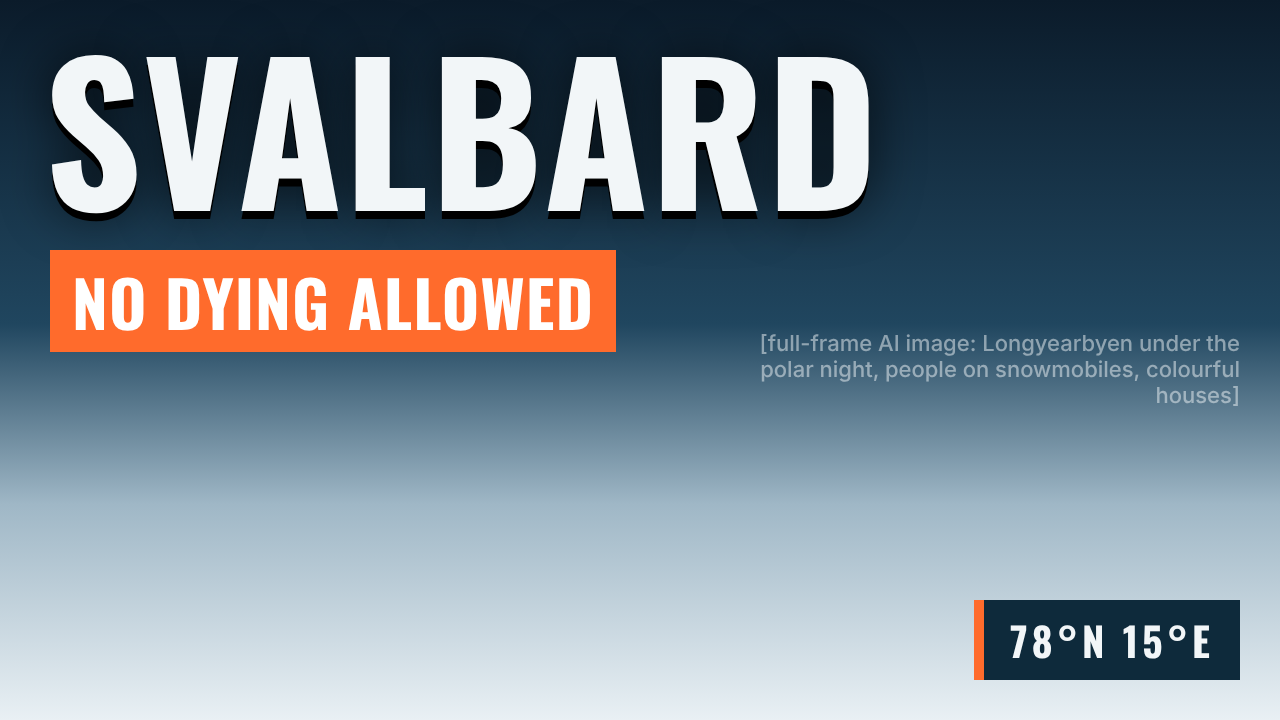
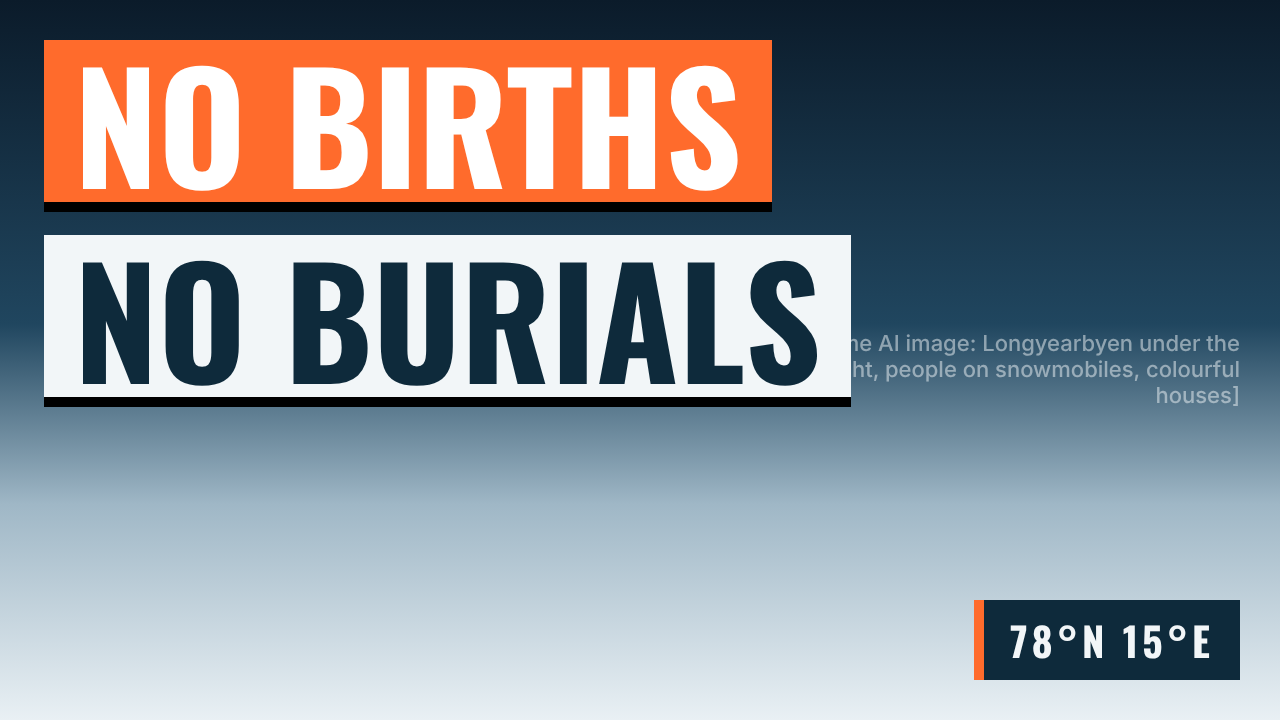
Align thumbnails, titles and hooks for pilot episodes; fix hook facts
Claude-Session: https://claude.ai/code/session_01Lf1GmHwi2stAegFha7FYGY

Changed region(s): [[0.0312, 0.0306, 0.6875, 0.5806]]

diff --git a/youtube/channels/_brand/make_brand.py b/youtube/channels/_brand/make_brand.py
@@ -54,8 +54,8 @@ C["life-across-the-map"] = dict(
         <div style="color:#FF6B2C;font:600 38px Oswald;letter-spacing:3px;margin-top:12px">NEW DOCUMENTARY EVERY TUE &amp; SAT</div></div></div>""",
     thumb="""<div class="abs" style="inset:0;background:linear-gradient(180deg,#0b1b2a 0%,#20465f 45%,#9fb7c6 70%,#e9f0f4 100%)"></div>
     <div class="abs" style="right:40px;top:330px;width:520px;color:rgba(242,246,248,.5);font:500 22px Inter;text-align:right">[full-frame AI image: Longyearbyen under the polar night, people on snowmobiles, colourful houses]</div>
-    <div class="abs" style="left:44px;top:30px;color:#F2F6F8;font:700 190px Oswald;line-height:1;letter-spacing:2px;text-shadow:0 8px 0 #000,0 0 50px rgba(0,0,0,.7)">SVALBARD</div>
-    <div class="abs" style="left:50px;top:250px;background:#FF6B2C;color:#fff;font:700 64px Oswald;padding:4px 22px;letter-spacing:1px">NO DYING ALLOWED</div>
+    <div class="abs" style="left:44px;top:40px;background:#FF6B2C;color:#fff;font:700 150px Oswald;line-height:1;padding:6px 30px;box-shadow:0 10px 0 #000">NO BIRTHS</div>
+    <div class="abs" style="left:44px;top:235px;background:#F2F6F8;color:#0E2A3B;font:700 150px Oswald;line-height:1;padding:6px 30px;box-shadow:0 10px 0 #000">NO BURIALS</div>
     <div class="abs" style="right:40px;bottom:40px;background:#0E2A3B;color:#F2F6F8;font:600 40px Oswald;letter-spacing:4px;padding:10px 26px;border-left:10px solid #FF6B2C">78°N 15°E</div>""",
 )
 C["backlot-whispers"] = dict(
@@ -101,9 +101,8 @@ C["hace-millones"] = dict(
     thumb="""<div class="abs" style="inset:0;background:radial-gradient(ellipse at 70% 30%,#ffb36b 0%,#c2410c 25%,#3a1d10 60%,#120c0a 100%)"></div>
     <div class="abs" style="right:40px;top:300px;width:520px;color:rgba(237,227,209,.55);font:500 22px Inter;text-align:right">[full-frame AI image: asteroid entering the sky over a Cretaceous forest, dinosaurs looking up]</div>
     <div class="abs" style="left:40px;top:30px;color:#EDE3D1;font:600 26px Oswald;letter-spacing:6px;opacity:.85">HACE MILLONES DE AÑOS</div>
-    <div class="abs" style="left:46px;top:70px;color:#FF5A1F;font-size:190px;line-height:.9;text-shadow:0 8px 0 #000">66</div>
-    <div class="abs" style="left:52px;top:245px;color:#EDE3D1;font-size:76px;line-height:1;text-shadow:0 6px 0 #000">MILLONES</div>
-    <div class="abs" style="left:40px;top:540px;background:#F2B33D;color:#1A1412;font-size:88px;line-height:1;padding:8px 26px">¿SOBREVIVIRÍAS?</div>""",
+    <div class="abs" style="left:40px;top:410px;display:flex;gap:18px"><div style="width:96px;height:96px;border:8px solid #EDE3D1;background:rgba(26,20,18,.75);display:flex;align-items:center;justify-content:center;color:#FF5A1F;font-size:78px;line-height:1">✕</div><div style="width:96px;height:96px;border:8px solid #EDE3D1;background:rgba(26,20,18,.75);display:flex;align-items:center;justify-content:center;color:#FF5A1F;font-size:78px;line-height:1"></div><div style="width:96px;height:96px;border:8px solid #EDE3D1;background:rgba(26,20,18,.75);display:flex;align-items:center;justify-content:center;color:#FF5A1F;font-size:78px;line-height:1"></div><div style="width:96px;height:96px;border:8px solid #EDE3D1;background:rgba(26,20,18,.75);display:flex;align-items:center;justify-content:center;color:#FF5A1F;font-size:78px;line-height:1"></div><div style="width:96px;height:96px;border:8px solid #EDE3D1;background:rgba(26,20,18,.75);display:flex;align-items:center;justify-content:center;color:#FF5A1F;font-size:78px;line-height:1"></div></div>
+    <div class="abs" style="left:40px;top:545px;background:#F2B33D;color:#1A1412;font-size:120px;line-height:1;padding:8px 30px;box-shadow:0 10px 0 #000">5 PRUEBAS</div>""",
 )
 HAZARD = "repeating-linear-gradient(-45deg,#FFC400 0 40px,#1E2327 40px 80px)"
 C["warum-es-geschah"] = dict(
@@ -128,7 +127,7 @@ C["warum-es-geschah"] = dict(
     <div class="abs" style="right:40px;top:40px;width:520px;color:rgba(242,242,242,.5);font:500 22px Inter;text-align:right">[full-frame AI reconstruction: concrete road bridge near Eschede, empty tracks, grey morning, no people]</div>
     <div class="abs" style="left:0;top:0;width:1280px;height:22px;background:repeating-linear-gradient(-45deg,#FFC400 0 40px,#1E2327 40px 80px)"></div>
     <div class="abs" style="left:40px;top:430px;background:#FFC400;color:#111;font:700 120px Oswald;line-height:1;padding:6px 28px">EIN RADREIFEN</div>
-    <div class="abs" style="left:40px;top:580px;background:#111;color:#F2F2F2;font:700 52px 'Courier Prime';padding:4px 22px">ESCHEDE 1998</div>""",
+    <div class="abs" style="left:40px;top:580px;background:#111;color:#F2F2F2;font:700 64px 'Courier Prime';padding:4px 22px">101 TOTE</div>""",
 )
 
 

diff --git a/youtube/channels/warum-es-geschah/channel.md b/youtube/channels/warum-es-geschah/channel.md
@@ -50,7 +50,7 @@ Visualisierungen sind KI-generierte Rekonstruktionen; Quellen in jeder Beschreib
 | Шрифты | Oswald 700 (заголовки), Courier Prime (время, даты — «протокол») |
 | Аватар | жёлто-чёрная предупреждающая полоса, разорванное звено цепи |
 | Баннер | полоса-предупреждение, «WARUM ES GESCHAH», слоган, «Neue Doku jeden Donnerstag & Sonntag» |
-| Обложка | ИИ-реконструкция места (без тел и крови); жёлтым 2–3 слова («EIN RADREIFEN»); плашка-год Courier |
+| Обложка | ИИ-реконструкция места (без тел и крови); жёлтым 2–3 слова («EIN RADREIFEN»); плашка Courier с тем, чего нет в заголовке |
 | Голос | мужской, спокойный, серьёзный (немецкий); Chatterbox `de`, exaggeration 0.4 |
 | Музыка | ACE-Step: «dark ambient, low drone, sparse piano, tension» — очень тихо |
 
@@ -78,7 +78,7 @@ Visualisierungen sind KI-generierte Rekonstruktionen; Quellen in jeder Beschreib
 
 | # | Выпуск |
 |---|---|
-| 1 | **Eschede 1998: Ein Radreifen und 101 Tote – warum es geschah \| Ganze Dokumentation** (пилот) |
+| 1 | **ICE-Unglück Eschede 1998: Warum es geschah \| Ganze Doku** (пилот) |
 | 2 | Lengede 1963: Das Wunder nach 14 Tagen unter Tage |
 | 3 | Hamburger Sturmflut 1962: Die Nacht, in der die Deiche brachen |
 | 4 | Halifax 1917: Die größte Explosion vor der Atombombe |
@@ -89,10 +89,14 @@ Visualisierungen sind KI-generierte Rekonstruktionen; Quellen in jeder Beschreib
 
 ## Пилот
 
-- **Обложка:** ИИ-реконструкция моста у Эшеде (без людей), жёлтым «EIN RADREIFEN», плашка «1998».
-- **Хук:** «Am 3. Juni 1998 brach unter einem ICE ein Stück Stahl, kaum größer als ein Teller. Sechs Minuten später waren
-  101 Menschen tot. Und das Teil hätte nie in diesem Zug sein dürfen.» (Факты и формулировку «hätte nie» сверить по
-  отчёту расследования перед записью; `hookscore.py` для немецкого не показателен.)
+- **Связка** (title.py 98/100): заголовок — событие и поисковые слова («ICE-Unglück Eschede»), обложка — загадочная деталь и
+  цена («EIN RADREIFEN» / «101 TOTE»), хук за 10 секунд объясняет обе. Прежняя обложка повторяла заголовок.
+- **Обложка:** ИИ-реконструкция моста у Эшеде (без людей), жёлтым «EIN RADREIFEN», чёрная плашка «101 TOTE».
+- **Хук:** «Am 3. Juni 1998 brach unter einem ICE ein Radreifen – ein Stahlring am Rad. Sechs Kilometer später waren
+  101 Menschen tot. Und es gab einen Moment, in dem jemand den Zug noch hätte stoppen können.»
+  (Исправлено: в прежней версии были ошибки — «через шесть минут» (на деле около 6 км, это ~2 минуты на 200 км/ч) и
+  «кусок размером с тарелку» (бандаж — кольцо почти во всё колесо). «Момент, когда можно было остановить» — пассажир
+  сообщил проводнику о куске металла в полу до крушения; сверить по отчёту перед записью.)
 - **Опорные факты (сверить):** 3 июня 1998, ICE 884 «Wilhelm Conrad Röntgen», усталостная трещина колёсного бандажа
   (Radreifen) колёс с резиновыми вставками, удар о мост; 101 погибший; после — отказ от этой конструкции колёс.
 

diff --git a/youtube/channels/hace-millones/channel.md b/youtube/channels/hace-millones/channel.md
@@ -44,7 +44,7 @@ Las imágenes son recreaciones generadas con IA basadas en la investigación cie
 | Шрифты | Archivo Black (заголовки), Inter (мелкий текст) |
 | Аватар | круг-срез земных слоёв с лавовой трещиной |
 | Баннер | слои пород, «HACE MILLONES DE AÑOS», слоган, «Documentales completos · miércoles y sábados» |
-| Обложка | ИИ-сцена эпохи; огромная цифра лавовым (66 MILLONES); слово «¿SOBREVIVIRÍAS?» янтарём; шкала времени внизу |
+| Обложка | ИИ-сцена эпохи; 5 клеток-испытаний (часть перечёркнута) + янтарная плашка «5 PRUEBAS»; цифра эпохи — в заголовке, не на обложке |
 | Голос | мужской, тёплый, лёгкая драматичность (испанский нейтральный); Chatterbox `es`, exaggeration 0.55 |
 | Музыка | ACE-Step: «epic cinematic ambient, deep drums, slow strings, prehistoric» |
 
@@ -71,7 +71,7 @@ Las imágenes son recreaciones generadas con IA basadas en la investigación cie
 
 | # | Выпуск |
 |---|---|
-| 1 | **¿Sobrevivirías al Día del Asteroide? Hace 66 Millones de Años \| Documental Completo** (пилот) |
+| 1 | **¿Sobrevivirías al Asteroide? Hace 66 Millones de Años** (пилот; «Documental completo» — в описание) |
 | 2 | Así Era la Tierra Hace 252 Millones de Años: Cuando Murió Casi Todo |
 | 3 | ¿Podrías Sobrevivir con los Neandertales? Hace 50.000 Años |
 | 4 | La Tierra Bola de Nieve: Cuando Todo el Planeta se Congeló |
@@ -82,7 +82,9 @@ Las imágenes son recreaciones generadas con IA basadas en la investigación cie
 
 ## Пилот
 
-- **Обложка:** сцена удара астероида; лавовым «66 MILLONES», янтарём «¿SOBREVIVIRÍAS?».
+- **Связка** (title.py 98/100): заголовок — вопрос и эпоха («¿Sobrevivirías…? 66 millones»), обложка — формат канала
+  (5 клеток, одна перечёркнута, «5 PRUEBAS»), хук обещает именно эти 5 испытаний. Прежняя обложка повторяла заголовок.
+- **Обложка:** астероид над меловым лесом, динозавры смотрят вверх; 5 клеток (первая с ✕) + «5 PRUEBAS».
 - **Хук:** «Despiertas en lo que hoy es México. Es una mañana cualquiera, hace 66 millones de años. En unas horas, una roca de
   diez kilómetros entrará en la atmósfera a más de setenta mil kilómetros por hora. Tienes cinco pruebas para seguir vivo.»
   (Оценщик `hookscore.py` настроен на английский, для испанского его баллы не показательны — хук собран по формуле

diff --git a/youtube/channels/life-across-the-map/channel.md b/youtube/channels/life-across-the-map/channel.md
@@ -107,11 +107,14 @@ Visuals are AI-generated illustrations based on documented facts; figures are so
 
 ## Пилот: How People Live 1,300 km From the North Pole | Svalbard
 
-- **Обложка:** полярная ночь над Лонгйиром, огромное оранжевое **NO DYING ALLOWED**, плашка 78°N 15°E.
-- **Хук (оценка hookscore 51, формула The Question):**
-  «Why would anyone choose to live 1,300 kilometres from the North Pole, in a town where you can't even give birth?»
-- **Запасной (47, The Impossible Claim):** «In this town, you're not allowed to die. And if you walk past the last house
-  without a rifle, you're breaking the law.»
+- **Связка «заголовок + обложка + хук»** (title.py 98/100): заголовок даёт место и цифру, обложка — парадокс, хук в первые
+  5 секунд раскрывает обложку и задаёт вопрос, на который отвечает весь фильм.
+- **Обложка:** полярная ночь над Лонгйиром; две плашки **NO BIRTHS** (оранжевая) / **NO BURIALS** (белая); 78°N 15°E.
+  (Прежний вариант «NO DYING ALLOWED» убран: это популярный миф — закона, запрещающего умирать, нет; есть отказ от
+  погребений с 1950-х и роды на материке.)
+- **Хук (hookscore 56 WORKABLE, The Question):**
+  «In this town you can't be born and you can't be buried. So why do 2,500 people refuse to leave?»
+- **Запасной (51):** «Why would anyone choose to live 1,300 kilometres from the North Pole, in a town where you can't even give birth?»
 - **Факты для сценария (проверить по источникам перед записью):** ~2 500 жителей Лонгйира; полярная ночь ~с конца октября по
   середину февраля; погребение не практикуется с 1950-х из-за вечной мерзлоты; вне посёлка обязательна защита от белых медведей;
   роды — на материке; безвизовый режим по Шпицбергенскому трактату; кошки запрещены (охрана птиц).
